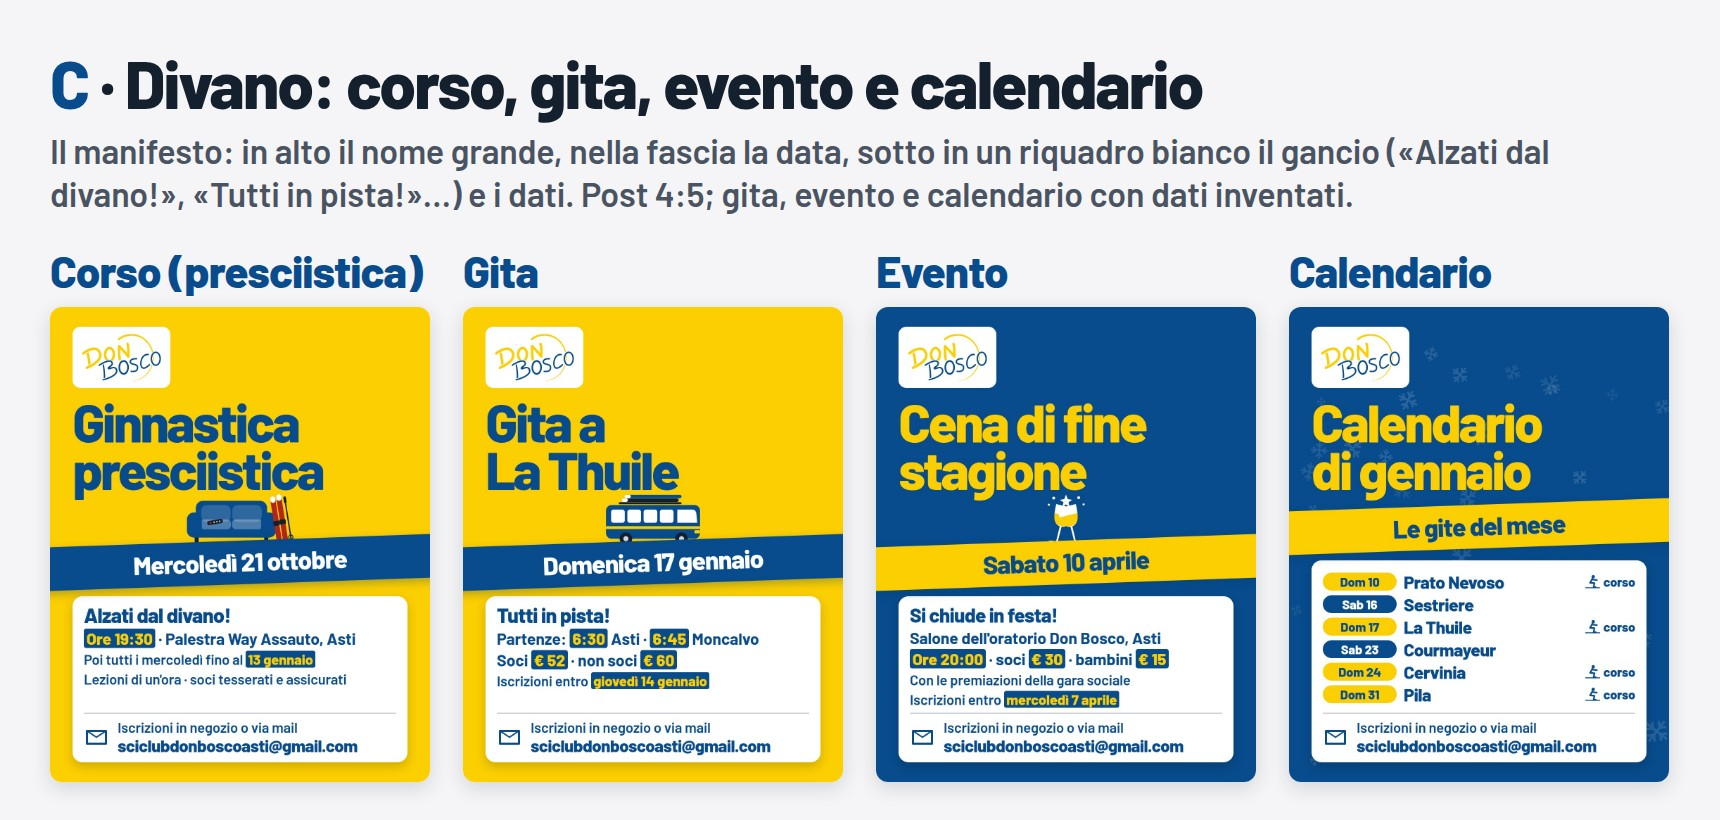
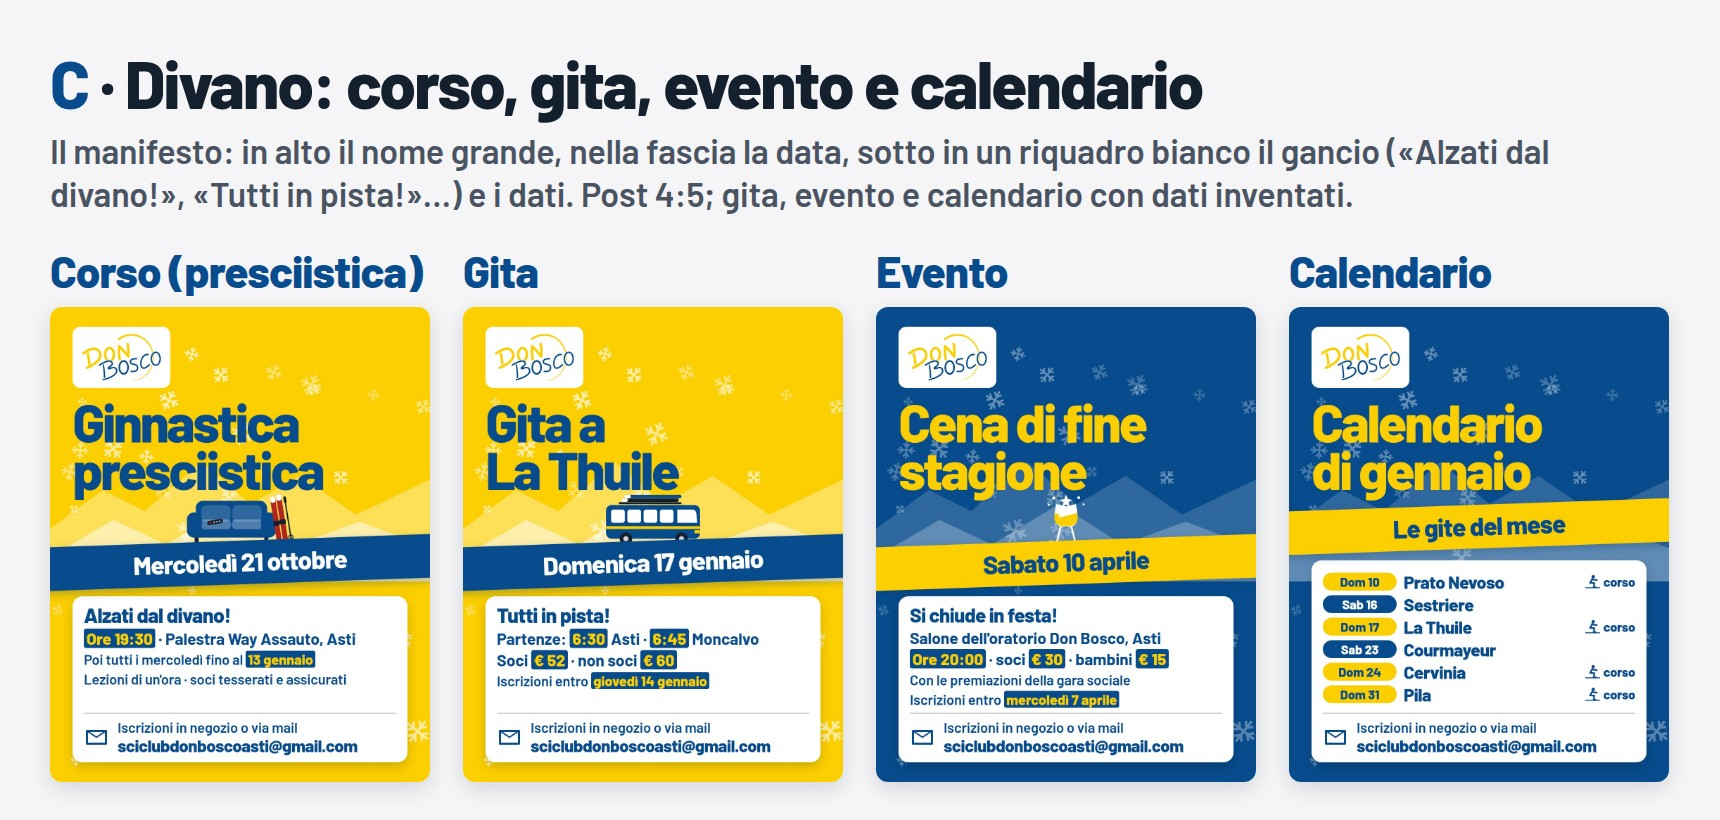
docs(social): C con fiocchi e montagne sullo sfondo [skip ci]
Lo sfondo pieno di C era piatto: ora in tutti i post fiocchi di neve e due
file di montagne stilizzate dietro il disegno e la fascia, in bianco
trasparente come le montagne di B (un solo blu e un solo giallo). Sul giallo
il bianco si vede meno, quindi lì montagne e fiocchi sono più opachi.

diff --git a/grafica/proposte-post-social/sorgenti/corso-c.html b/grafica/proposte-post-social/sorgenti/corso-c.html
@@ -6,6 +6,8 @@
 <link rel="stylesheet" href="../../font/barlow/barlow.css">
 <link rel="stylesheet" href="comune.css">
 <style>
+/* Sul giallo il bianco trasparente si vede meno che sul blu: montagne più opache. */
+html { --monti-1: .34; --monti-2: .5; }
 /* C · Divano. Manifesto: la prima riga della mail ("Alzati dal divano")
  * diventa il titolo, enorme, sul giallo del logo; un divano rimasto vuoto con
  * gli sci appoggiati. Le informazioni sono quelle di A (orario e durata,
@@ -28,6 +30,9 @@ html.story .gancio { font-size: 150px; margin-top: 44px; }
 
 .scena { flex: 1 1 0; min-height: 0; position: relative; z-index: 1; margin-bottom: -14px; }
 html.post .scena { flex: none; height: 150px; }
+/* Montagne stilizzate dietro il disegno e la fascia, come negli altri post di C. */
+.monti { position: absolute; left: 0; top: 380px; width: 1080px; height: 400px; pointer-events: none; }
+html.story .monti { top: 560px; }
 .scena svg { position: absolute; inset: 0; width: 100%; height: 100%; }
 
 .nastro { flex: none; position: relative; z-index: 2; margin: 0 -110px; background: var(--blu); color: #fff;
@@ -66,6 +71,13 @@ html.story .iscrizioni svg { width: 70px; height: 70px; }
 </head>
 <body>
 <div class="cv">
+  <!-- Sfondo uguale in tutti i post di C: fiocchi e montagne stilizzate, in bianco
+       trasparente (un solo blu e un solo giallo). -->
+  <div class="neve" data-neve=".7"></div>
+  <svg class="monti" viewBox="0 0 1080 400" preserveAspectRatio="none" aria-hidden="true">
+    <polygon fill="#fff" style="fill-opacity: var(--monti-1, .16)" points="0,250 150,140 270,200 430,60 570,180 710,100 870,210 1080,110 1080,400 0,400"/>
+    <polygon fill="#fff" style="fill-opacity: var(--monti-2, .24)" points="0,330 180,225 330,295 520,180 700,295 880,230 1080,305 1080,400 0,400"/>
+  </svg>
   <div class="contenuto">
     <div class="testa">
       <div class="logo-box"><img src="../../logo/logo_sciclubdonbosco.svg" alt="Sci Club Don Bosco"></div>

diff --git a/grafica/proposte-post-social/sorgenti/gita-c.html b/grafica/proposte-post-social/sorgenti/gita-c.html
@@ -7,10 +7,21 @@
 <link rel="stylesheet" href="comune.css">
 <link rel="stylesheet" href="c.css">
 <!-- Gita di domenica: il giallo del giorno, scritto in blu scuro. -->
-<style>html { --cat: #FCCF02; --cat-ink: #084C8D; }</style>
+<style>
+/* Sul giallo il bianco trasparente si vede meno che sul blu: montagne più opache. */
+html { --monti-1: .34; --monti-2: .5; }
+html { --cat: #FCCF02; --cat-ink: #084C8D; }
+</style>
 </head>
 <body>
 <div class="cv">
+  <!-- Sfondo uguale in tutti i post di C: fiocchi e montagne stilizzate, in bianco
+       trasparente (un solo blu e un solo giallo). -->
+  <div class="neve" data-neve=".7"></div>
+  <svg class="monti" viewBox="0 0 1080 400" preserveAspectRatio="none" aria-hidden="true">
+    <polygon fill="#fff" style="fill-opacity: var(--monti-1, .16)" points="0,250 150,140 270,200 430,60 570,180 710,100 870,210 1080,110 1080,400 0,400"/>
+    <polygon fill="#fff" style="fill-opacity: var(--monti-2, .24)" points="0,330 180,225 330,295 520,180 700,295 880,230 1080,305 1080,400 0,400"/>
+  </svg>
   <div class="contenuto">
     <div class="testa">
       <div class="logo-box"><img src="../../logo/logo_sciclubdonbosco.svg" alt="Sci Club Don Bosco"></div>

diff --git a/grafica/proposte-post-social/sorgenti/calendario-c.html b/grafica/proposte-post-social/sorgenti/calendario-c.html
@@ -26,7 +26,13 @@ html { --cat: #084C8D; --cat-ink: #fff; --gancio: #FCCF02; --nastro: #FCCF02; --
     <path d="M120 70 L84 136"/><path d="M114 82 L192 92"/><path d="M84 136 L154 142 L140 206 L172 206"/></g>
   <circle cx="134" cy="38" r="27" fill="currentColor"/></symbol></svg>
 <div class="cv">
-  <div class="neve" data-neve=".14"></div>
+  <!-- Sfondo uguale in tutti i post di C: fiocchi e montagne stilizzate, in bianco
+       trasparente (un solo blu e un solo giallo). -->
+  <div class="neve" data-neve=".38"></div>
+  <svg class="monti" viewBox="0 0 1080 400" preserveAspectRatio="none" aria-hidden="true">
+    <polygon fill="#fff" style="fill-opacity: var(--monti-1, .16)" points="0,250 150,140 270,200 430,60 570,180 710,100 870,210 1080,110 1080,400 0,400"/>
+    <polygon fill="#fff" style="fill-opacity: var(--monti-2, .24)" points="0,330 180,225 330,295 520,180 700,295 880,230 1080,305 1080,400 0,400"/>
+  </svg>
   <div class="contenuto">
     <div class="testa">
       <div class="logo-box"><img src="../../logo/logo_sciclubdonbosco.svg" alt="Sci Club Don Bosco"></div>

diff --git a/grafica/proposte-post-social/sorgenti/evento-c.html b/grafica/proposte-post-social/sorgenti/evento-c.html
@@ -14,6 +14,13 @@ html { --cat: #084C8D; --cat-ink: #fff; --gancio: #FCCF02; --nastro: #FCCF02; --
 </head>
 <body>
 <div class="cv">
+  <!-- Sfondo uguale in tutti i post di C: fiocchi e montagne stilizzate, in bianco
+       trasparente (un solo blu e un solo giallo). -->
+  <div class="neve" data-neve=".38"></div>
+  <svg class="monti" viewBox="0 0 1080 400" preserveAspectRatio="none" aria-hidden="true">
+    <polygon fill="#fff" style="fill-opacity: var(--monti-1, .16)" points="0,250 150,140 270,200 430,60 570,180 710,100 870,210 1080,110 1080,400 0,400"/>
+    <polygon fill="#fff" style="fill-opacity: var(--monti-2, .24)" points="0,330 180,225 330,295 520,180 700,295 880,230 1080,305 1080,400 0,400"/>
+  </svg>
   <div class="contenuto">
     <div class="testa">
       <div class="logo-box"><img src="../../logo/logo_sciclubdonbosco.svg" alt="Sci Club Don Bosco"></div>

diff --git a/grafica/proposte-post-social/sorgenti/c.css b/grafica/proposte-post-social/sorgenti/c.css
@@ -17,6 +17,9 @@
 .scena { flex: none; height: 150px; position: relative; z-index: 1; margin-bottom: -14px; }
 .scena svg { position: absolute; inset: 0; width: 100%; height: 100%; }
 
+/* Montagne stilizzate dietro il disegno e la fascia (il resto le copre). */
+.monti { position: absolute; left: 0; top: 380px; width: 1080px; height: 400px; pointer-events: none; }
+
 .nastro { flex: none; position: relative; z-index: 2; margin: 0 -110px; background: var(--nastro, var(--blu)); color: var(--nastro-ink, #fff);
   transform: rotate(-2deg); text-align: center; font-size: 72px; font-weight: 800; letter-spacing: -.03em; padding: 16px 0 22px; white-space: nowrap;
   box-shadow: 0 10px 24px rgba(6,57,106,.3); }

diff --git a/grafica/proposte-post-social/README.md b/grafica/proposte-post-social/README.md
@@ -48,7 +48,9 @@ hanno dati inventati.
   ("Alzati dal divano!", "Tutti in pista!", "Si chiude in festa!") e i dati, in
   un riquadro bianco uguale sul giallo e sul blu, con le iscrizioni in fondo: si
   capisce subito cos'è e quando. Il gancio va scritto post per post: è la
-  grafica che chiede più lavoro a chi pubblica.
+  grafica che chiede più lavoro a chi pubblica. Sullo sfondo fiocchi e
+  montagne stilizzate in bianco trasparente (più opachi sul giallo, dove il
+  bianco si vede meno).
 - **Titoli che dicono cos'è:** "Gita a La Thuile", non solo il posto;
   "Calendario di gennaio" per il calendario del mese.
 - **A con la foto:** in alto la foto caricata nel generatore (gita, cena,
